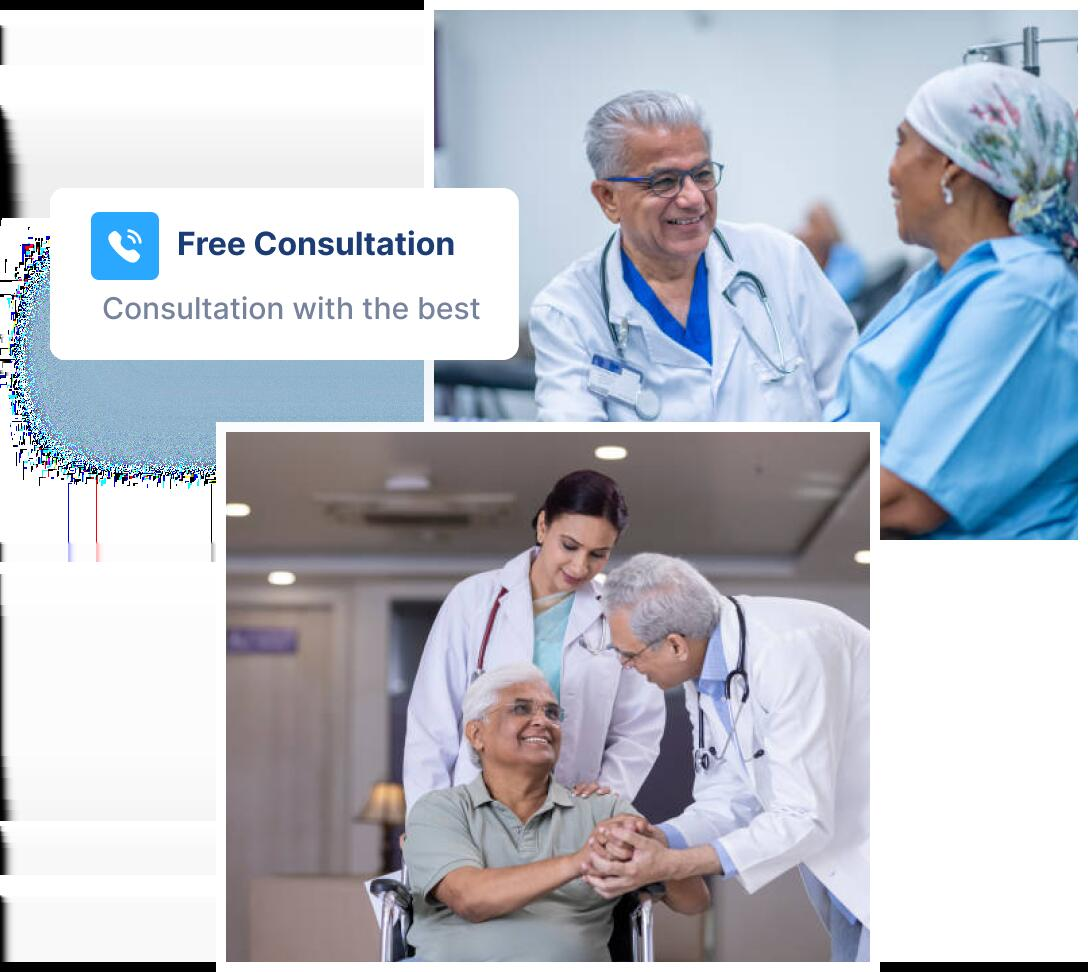
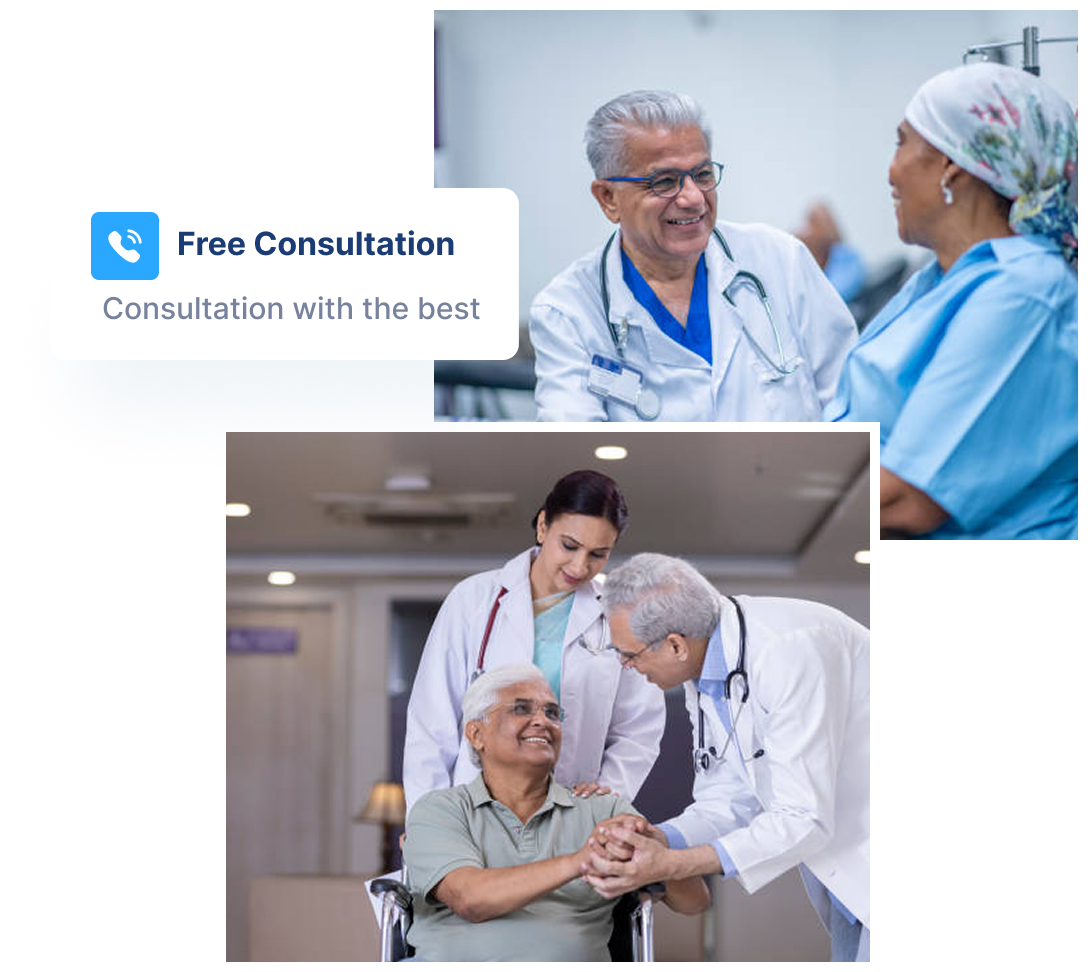
Implemented Offers, Specialization, Specialist components

diff --git a/src/components/Sections/Specialists/Specialist.jsx b/src/components/Sections/Specialists/Specialist.jsx
@@ -1,0 +1,74 @@
+import React from "react";
+import { Box, Container, Typography } from "@mui/material";
+import Ankur from "../../../assets/ankur.jpg";
+import Ahmad from "../../../assets/ahmad.jpg";
+import Stevens from "../../../assets/ahmad-stevens.jpg";
+import Heena from "../../../assets/heena.jpg";
+import Lesley from "../../../assets/lesley.jpg";
+
+import { Swiper, SwiperSlide } from "swiper/react";
+import { Autoplay, Pagination } from "swiper/modules";
+import "swiper/css";
+import "swiper/css/pagination";
+import SpecialistCard from "./SpecialistCard";
+
+const Specialist = () => {
+  const specialists = [
+    { img: Lesley, title: "Dr. Lesley Hull", designation: "Medicine" },
+    { img: Ahmad, title: "Dr. Ahmad Khan", designation: "Neurologist" },
+    { img: Heena, title: "Dr. Heena Sachdeva", designation: "Orthopadics" },
+    { img: Ankur, title: "Dr. Ankur Sharma", designation: "Medicine" },
+    { img: Stevens, title: "Dr. Ahmad Stevens", designation: "Neurologist" },
+    { img: Lesley, title: "Dr. Lesley Hull", designation: "Medicine" },
+    { img: Ahmad, title: "Dr. Ahmad Khan", designation: "Neurologist" },
+    { img: Heena, title: "Dr. Heena Sachdeva", designation: "Orthopadics" },
+    { img: Ankur, title: "Dr. Ankur Sharma", designation: "Medicine" },
+    { img: Stevens, title: "Dr. Ahmad Stevens", designation: "Neurologist" },
+  ];
+  return (
+    <Box py={4}>
+      <Typography
+        variant="h2"
+        fontSize="48px"
+        color="#1B3C74"
+        fontWeight={600}
+        mb={4}
+        lineHeight={1.2}
+      >
+        Our Medical Specialist
+      </Typography>
+      <Container maxWidth="xl">
+        <Swiper
+          modules={[Autoplay, Pagination]}
+          spaceBetween={20}
+          centeredSlides={true}
+          autoplay={{
+            delay: 3000,
+            disableOnInteraction: false,
+          }}
+          loop={true}
+          slidesPerView={3}
+          pagination={{ clickable: true }}
+          breakpoints={{
+            767: { slidesPerView: 4},
+
+          }}
+          style={{ width: "100%", paddingBottom: 40 }}
+        >
+          {specialists.map((specialist, index) => (
+            <SwiperSlide key={index}>
+                <SpecialistCard
+                    img={specialist.img}
+                    title={specialist.title}
+                    designation={specialist.designation}
+
+                />
+            </SwiperSlide>
+          ))}
+        </Swiper>
+      </Container>
+    </Box>
+  );
+};
+
+export default Specialist;

diff --git a/src/components/Sections/Specialization/Specialization.jsx b/src/components/Sections/Specialization/Specialization.jsx
@@ -1,0 +1,71 @@
+import { Box, Button, Container, Grid, Typography } from "@mui/material";
+import React from "react";
+
+import DentistryIcon from '../../../assets/Drugstore.png'
+import PrimaryCareIcon from '../../../assets/Stethoscope.png'
+import CardiologyIcon from '../../../assets/Heart Rate.png'
+import MriResonanceIcon from '../../../assets/Heart Rate Monitor.png'
+import BloodTestIcon from '../../../assets/Blood Sample.png'
+import PiscologistIcon from '../../../assets/Immune.png'
+import LaboratoryIcon from '../../../assets/Drugstore.png'
+import XrayIcon from '../../../assets/X-Ray.png'
+import IconCard from "../../IconCard/IconCard";
+
+const Specialization = () => {
+      const services = [
+    { icon: DentistryIcon, title: "Dentistry" },
+    { icon: PrimaryCareIcon, title: "Primary Care" },
+    { icon: CardiologyIcon, title: "Cardiology" },
+    { icon: MriResonanceIcon, title: "MRI Resonance" },
+    { icon: BloodTestIcon, title: "Blood Test" },
+    { icon: PiscologistIcon, title: "Piscologist" },
+    { icon: LaboratoryIcon, title: "Laboratory" },
+    { icon: XrayIcon, title: "X-Ray" },
+  ];
+
+
+  return (
+    <Box
+      py={4}
+      sx={{
+        background:
+          "linear-gradient(#E7F0FF, rgba(232, 241, 255, 0.47) 90%, #fff 10%)",
+      }}
+      height='100vh'
+
+    >
+      <Container sx={{textAlign:"center"}}>
+        <Typography
+          variant="h2"
+          fontSize="48px"
+          color="#1B3C74"
+          fontWeight={600}
+          mb={4}
+          lineHeight={1.2}
+        >
+          Find By Specialisation
+        </Typography>
+        <Grid
+          container
+          spacing={{ xs: 1, md: 6 }}
+          justifyContent='center'
+          mb={5}
+        >
+          {services.map((service) => (
+            <Grid item key={service.title} xs={4} md={3}>
+              <IconCard
+                icon={service.icon}
+                title={service.title}
+                bgColor="#fff"
+                shadow={true}
+              />
+            </Grid>
+          ))}
+        </Grid>
+        <Button variant="contained" size="large" disableElevation>View All</Button>
+      </Container>
+    </Box>
+  );
+};
+
+export default Specialization;

diff --git a/src/components/Sections/PatientCaring/PatientCaring.jsx b/src/components/Sections/PatientCaring/PatientCaring.jsx
@@ -1,0 +1,73 @@
+import { Box, Container, Grid, Typography } from "@mui/material";
+import React from "react";
+import PatientCaringBanner from "../../../assets/patientcaring.png";
+import { Link } from "react-router-dom";
+
+const PatientCaring = () => {
+  return (
+    <Box
+      py={6}
+      sx={{
+        background:
+          "linear-gradient(#E7F0FF, rgba(232, 241, 255, 0.47) 90%, #fff 10%)",
+      }}
+    >
+      <Container maxWidth='xl'>
+        <Grid container spacing={3} alignItems='center'>
+          <Grid item xs={12} >
+            <Box
+              component="img"
+              src={PatientCaringBanner}
+              alt="Medical Center Hero"
+              sx={{ width:{xs:1, md:'40%'}}}
+            />
+          </Grid>
+          <Grid item xs={12}>
+            <Typography
+              variant="h3"
+              component="h1"
+              sx={{
+                color: "#2AA7FF",
+                fontSize: "16px",
+                fontWeight: 600,
+                textAlign: "left",
+                lineHeight: "27px",
+              }}
+            >
+              HELPING PATIENTS FROM AROUND THE GLOBE!!
+            </Typography>
+            <Typography
+              variant="h1"
+              component="h1"
+              mb={1}
+              sx={{
+                fontSize: "48px",
+                fontWeight: 600,
+                textAlign: "left",
+                lineHeight: "67px",
+              }}
+            >
+              Patient <span style={{ color: "#2AA7FF" }}>Caring</span>
+            </Typography>
+            <Typography
+              color="#5C6169"
+              mb={2}
+              sx={{
+                textAlign: "left",
+                fontWeight: 500,
+                fontSize: "17px",
+                lineHeight: "29px",
+              }}
+            >
+              Our goal is to deliver quality of care in a courteous, respectful,
+              and compassionate manner. We hope you will allow us to care for
+              you and strive to be the first and best choice for healthcare.
+            </Typography>
+          </Grid>
+        </Grid>
+      </Container>
+    </Box>
+  );
+};
+
+export default PatientCaring;

diff --git a/src/components/IconLayout/HeroServices.jsx b/src/components/IconLayout/HeroServices.jsx
@@ -9,11 +9,11 @@ import IconCard from "../IconCard/IconCard";
 
 const HeroServices = () => {
   const services = [
-    { img: DoctorIcon, title: "Doctors" },
-    { img: DrugStoreIcon, title: "Labs" },
-    { img: HospitalIcon, title: "Hospitals", active: true },
-    { img: CapsuleIcon, title: "Medical Store" },
-    { img: AmbulanceIcon, title: "Ambulance" },
+    { icon: DoctorIcon, title: "Doctors" },
+    { icon: DrugStoreIcon, title: "Labs" },
+    { icon: HospitalIcon, title: "Hospitals", active: true },
+    { icon: CapsuleIcon, title: "Medical Store" },
+    { icon: AmbulanceIcon, title: "Ambulance" },
   ];
   return (
     <Box display="flex" flexDirection="column">
@@ -35,7 +35,7 @@ const HeroServices = () => {
         {services.map((service) => (
           <Grid item key={service.title} xs={4} md={2.5}>
             <IconCard
-              img={service.img}
+              icon={service.icon}
               title={service.title}
               active={service.active || false}
               bgColor="#FAFBFE"

diff --git a/src/components/IconCard/IconCard.jsx b/src/components/IconCard/IconCard.jsx
@@ -1,10 +1,10 @@
 import { Box, Stack, Typography } from '@mui/material'
 import React from 'react'
 
-const IconCard = ({img, title, active=false, bgColor}) => {
+const IconCard = ({icon, title, active=false, shadow=false, bgColor}) => {
   return (
-    <Stack spacing={2} py={3} px={5} alignItems='center' borderRadius={2} bgcolor={active? "rgba(42,167,255,0.08)": bgColor} border={active ? "1px solid #2AA7FF" : "0"}>
-        <Box component='img' src={img} height={60} width={60} alt={title}/>
+    <Stack spacing={2} p={3} height={150} width={200} alignItems='center' borderRadius={2} bgcolor={active? "rgba(42,167,255,0.08)": bgColor} border={active ? "1px solid #2AA7FF" : "0"} boxShadow={shadow?"0 0 24px rgba(0, 0, 0, 0.09)":"none"}>
+        <Box component='img' src={icon} height={60} width={60} alt={title}/>
         <Typography color={active ? 'primary.main' : "#ABB6C7"} fontSize={18} fontWeight={active ? 600 : 400}>{title}</Typography>
     </Stack>
   )

diff --git a/src/components/Sections/Specialists/SpecialistCard.jsx b/src/components/Sections/Specialists/SpecialistCard.jsx
@@ -1,0 +1,21 @@
+import { Box, Typography } from '@mui/material'
+import React from 'react'
+
+const SpecialistCard = ({img, title, designation}) => {
+  return (
+    <Box textAlign="center">
+                  <Box
+                component={"img"}
+                src={img}
+                width={1}
+                style={{width:"90%", height:"90%", objectFit:"cover"}}
+                mb={2}
+                sx={{boxShadow:"0 15px 55px -10px rgba(0,0,0,0.09)", borderRadius:"50% 50% 8px 8px"}}
+                />
+              <Typography fontSize={{sx:16, md:24}} color='#1B3C74'>{title}</Typography>
+              <Typography fontWeight={500} fontSize={{xs:14, md:17}} color='primary.main'>{designation}</Typography>
+    </Box>
+  )
+}
+
+export default SpecialistCard

diff --git a/src/Home/Home.jsx b/src/Home/Home.jsx
@@ -5,6 +5,9 @@ import HeroSlider from '../components/HeroSlider/HeroSlider'
 import SearchHospital from "../components/SearchHospital/SearchHospital";
 import HeroServices from '../components/IconLayout/HeroServices'
 import Offers from "../components/Sections/Offers/Offers";
+import Specialization from "../components/Sections/Specialization/Specialization";
+import Specialist from "../components/Sections/Specialists/Specialist";
+import PatientCaring from "../components/Sections/PatientCaring/PatientCaring";
 
 const Home = () => {
   return (
@@ -25,6 +28,9 @@ const Home = () => {
         </Container>
       </Box>
       <Offers/>
+      <Specialization/>
+      <Specialist/>
+      <PatientCaring/>
     </Box>
   );
 };

diff --git a/src/styles.css b/src/styles.css
@@ -1,0 +1,18 @@
+.swiper-pagination-bullet {
+  height: 10px;
+    width: 10px;
+    border-radius: 50%;
+    cursor: pointer;
+    background: #c2e2ff;
+    opacity: 1;
+    border: 2px solid transparent;
+    margin: 0 6px !important;
+    transition: border 0.2s, background 0.2s;
+}
+
+.swiper-pagination-bullet-active {
+    outline: 1px solid #2aa7ff;
+    outline-offset: 4px;
+    background: #2aa7ff;
+  
+}

diff --git a/src/index.js b/src/index.js
@@ -1,6 +1,7 @@
 import React from "react";
 import ReactDOM from "react-dom/client";
 import "./index.css";
+import "./styles.css"
 import App from "./App";
 import Search from "./Search/Search";
 import MyBookings from "./MyBookings/MyBookings";

diff --git a/src/components/Sections/Offers/Offers.jsx b/src/components/Sections/Offers/Offers.jsx
@@ -8,7 +8,7 @@ import { Swiper, SwiperSlide } from "swiper/react";
 import { Pagination } from "swiper/modules";
 import 'swiper/css';
 import 'swiper/css/pagination';
-import './Offers.css';
+
 
 
 // import 'swiper/css/scrollbar';
